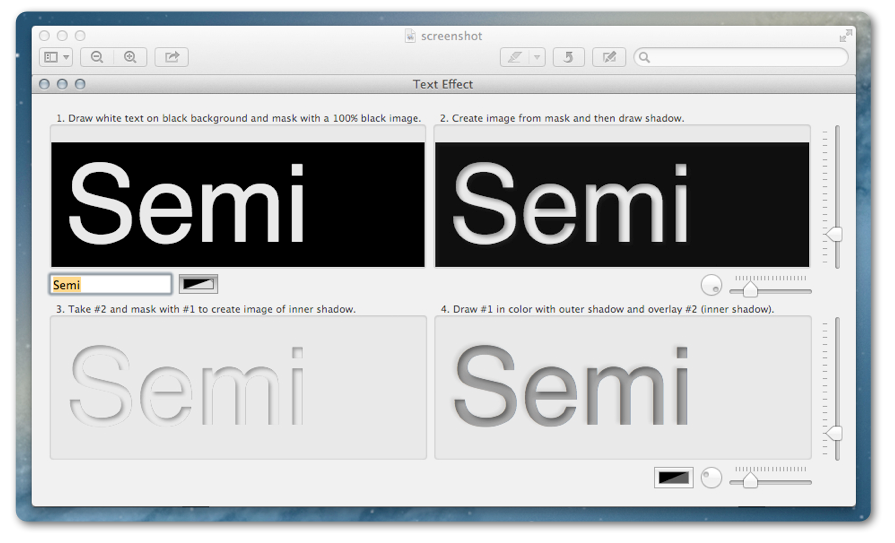
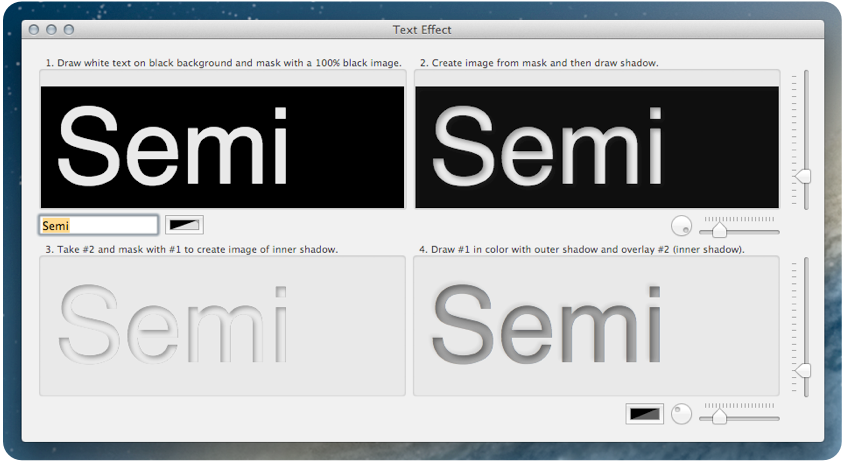
updated screenshot

diff --git a/Text Effect/SemiTextView.m b/Text Effect/SemiTextView.m
@@ -82,7 +82,7 @@
     
     NSMutableParagraphStyle* textStyle = [[NSMutableParagraphStyle defaultParagraphStyle] mutableCopy];
     [textStyle setAlignment: NSLeftTextAlignment];
-    NSFont* font = [NSFont fontWithName: @"Digital-7Italic" size:140];
+    NSFont* font = [NSFont fontWithName: @"Helvetica" size:120];
     
     NSDictionary* blackFontAttributes = [NSDictionary dictionaryWithObjectsAndKeys:
                                          font, NSFontAttributeName,
